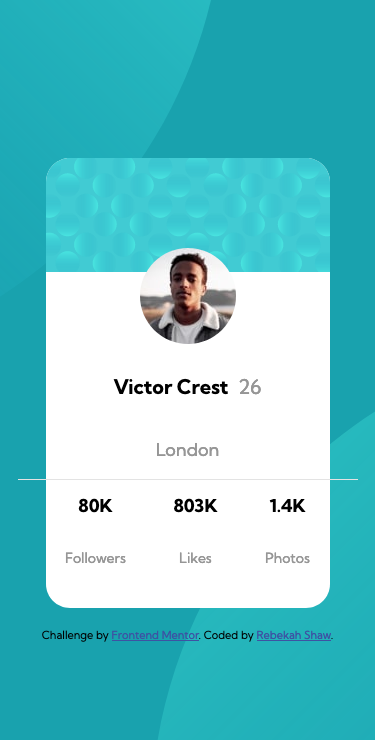
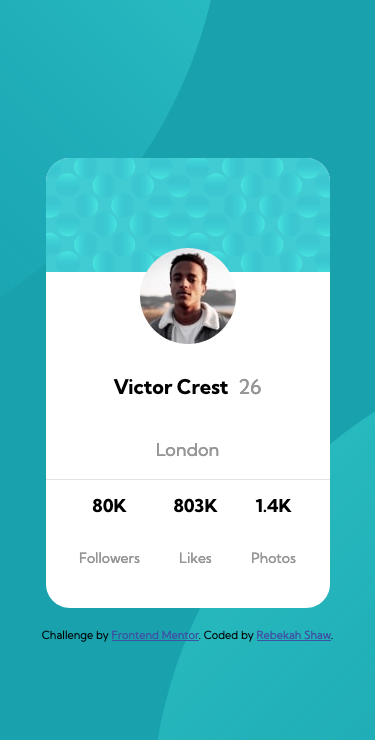
Made Changes To Mobile Style

diff --git a/css/style.css b/css/style.css
@@ -112,8 +112,17 @@ main {
   position: relative;
   flex-direction: row;
   justify-content: space-evenly;
-  width: 340px;
   border-top: 1px solid #e3e3e3;
+}
+@media (max-width: 1440px) {
+  .stats {
+    width: 340px;
+  }
+}
+@media (max-width: 375px) {
+  .stats {
+    width: 284px;
+  }
 }
 
 .stat {

diff --git a/css/style.scss b/css/style.scss
@@ -115,8 +115,13 @@ main {
    position: relative;
    flex-direction: row;
   justify-content: space-evenly;
-   width: 340px;
    border-top: 1px solid hsl(0, 0%, 89%);
+   @media (max-width: $desktop) {
+    width: 340px;
+   }
+   @media (max-width: $mobile) {
+       width: 284px;
+   }
 }
 
 .stat {
